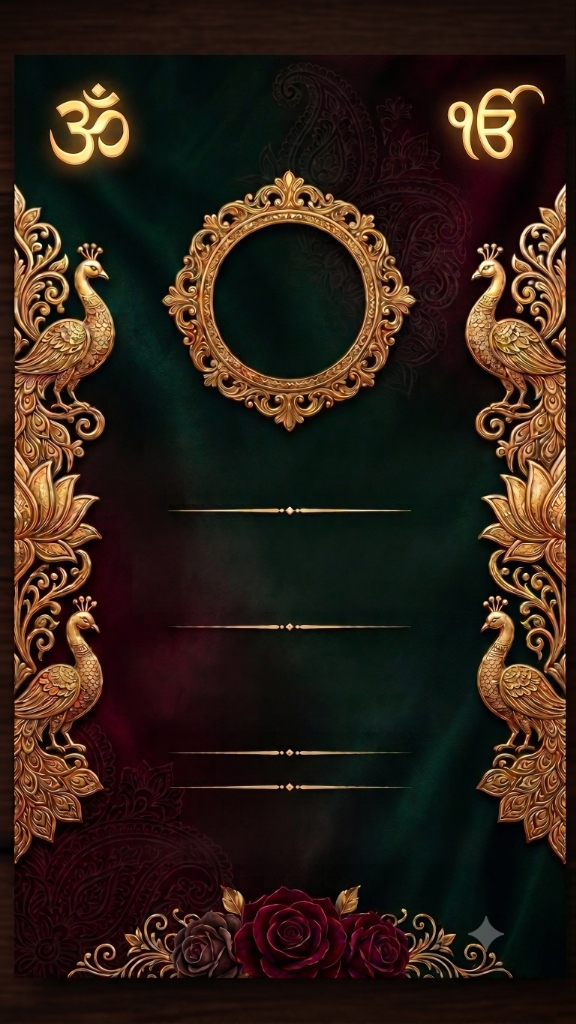
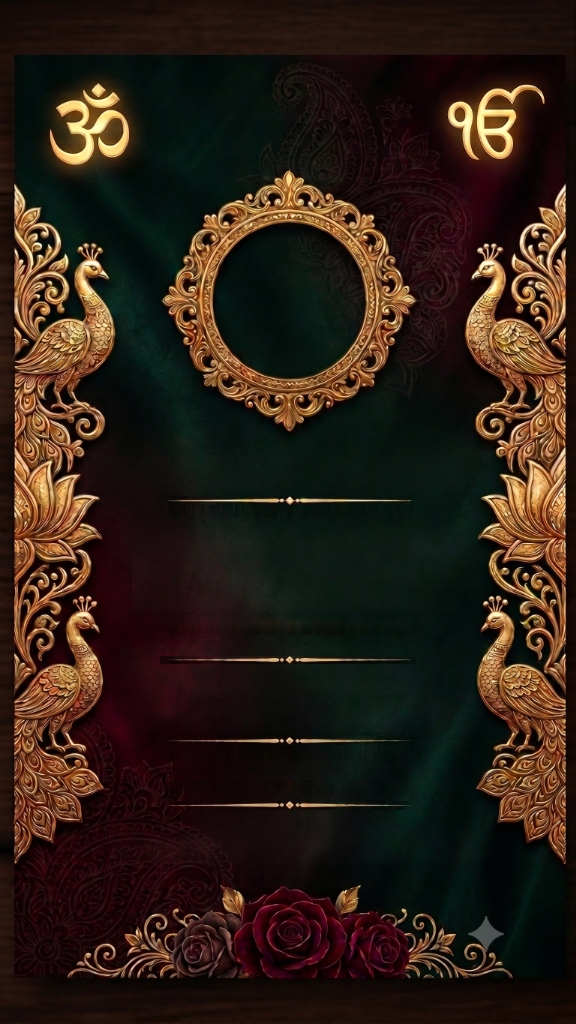
enhanced image rendering

diff --git a/src/pages/DetailView.jsx b/src/pages/DetailView.jsx
@@ -53,10 +53,10 @@ export default function DetailView({ satsangId, user, profile, nav, notify, onRe
 
   const getResponsiveMessageFontSize = (text) => {
     const len = text ? text.length : 0;
-    if (len < 60) return 19;
-    if (len < 100) return 16;
-    if (len < 140) return 13.5;
-    return 12;
+    if (len < 60) return 15;
+    if (len < 100) return 13;
+    if (len < 140) return 11.5;
+    return 10.5;
   };
 
   const getResponsiveTitleFontSize = (text) => {
@@ -64,6 +64,16 @@ export default function DetailView({ satsangId, user, profile, nav, notify, onRe
     if (len < 15) return 20;
     if (len < 25) return 17;
     return 14;
+  };
+
+  const getResponsiveAddressFontSize = (text) => {
+    const len = text ? text.length : 0;
+    if (len < 25) return 10;
+    if (len < 40) return 9;
+    if (len < 55) return 8;
+    if (len < 75) return 7;
+    if (len < 95) return 6.5;
+    return 5.5;
   };
 
   const handleDownloadInvite = async () => {
@@ -132,7 +142,7 @@ export default function DetailView({ satsangId, user, profile, nav, notify, onRe
   const invitePageUrl = `https://gurujisatsangs.com/#/satsang/${satsangId}`;
 
   const handleWhatsAppShare = () => {
-    const textMessage = `🙏 Jai Guruji! You are warmly invited to attend our upcoming Satsang. \n\nDetails:\n📅 Date: ${s.date}\n⏰ Time: ${s.time}\n📍 Venue: ${s.addressLine1 || s.address}, ${s.city}\n\nPlease click the link below to register and confirm your attendance:\n${invitePageUrl}\n\nShukrana Guruji! 🙏`;
+    const textMessage = `🙏 Jai Guruji! You are warmly invited to attend our upcoming Satsang. \n\nDetails:\n📅 Date: ${s.date}\n⏰ Time: ${s.time}\n📍 Venue: ${s.addressLine1 || s.address}, ${s.city}${s.postcode ? ' ' + s.postcode : ''}\n\nPlease click the link below to register and confirm your attendance:\n${invitePageUrl}\n\nShukrana Guruji! 🙏`;
     const shareUrl = `https://api.whatsapp.com/send?text=${encodeURIComponent(textMessage)}`;
     window.open(shareUrl, "_blank");
   };
@@ -288,7 +298,7 @@ export default function DetailView({ satsangId, user, profile, nav, notify, onRe
         <body>
           <div class="header-info">
             <h1>🌹 Day-of Seva Allocation Sheet</h1>
-            <h2><strong>Event:</strong> ${s.title} &nbsp;|&nbsp; <strong>Date:</strong> ${s.date} at ${s.time} &nbsp;|&nbsp; <strong>Venue:</strong> ${s.addressLine1 || s.address}, ${s.city}</h2>
+            <h2><strong>Event:</strong> ${s.title} &nbsp;|&nbsp; <strong>Date:</strong> ${s.date} at ${s.time} &nbsp;|&nbsp; <strong>Venue:</strong> ${s.addressLine1 || s.address}, ${s.city}${s.postcode ? ' ' + s.postcode : ''}</h2>
             <button onclick="window.print()" style="padding: 10px 20px; background: #d4972a; border: none; color: #fff; font-weight: bold; border-radius: 6px; cursor: pointer; font-size: 14px;">Print Seva Sheet</button>
           </div>
           
@@ -1496,8 +1506,8 @@ export default function DetailView({ satsangId, user, profile, nav, notify, onRe
                     position: "absolute",
                     left: 20,
                     right: 20,
-                    top: 275,
-                    height: 40,
+                    top: 272,
+                    height: 38,
                     display: "flex",
                     alignItems: "center",
                     justifyContent: "center",
@@ -1522,8 +1532,8 @@ export default function DetailView({ satsangId, user, profile, nav, notify, onRe
                     position: "absolute",
                     left: 70,
                     right: 70,
-                    top: 325,
-                    height: 60,
+                    top: 320,
+                    height: 85,
                     display: "flex",
                     alignItems: "center",
                     justifyContent: "center",
@@ -1547,8 +1557,8 @@ export default function DetailView({ satsangId, user, profile, nav, notify, onRe
                     position: "absolute",
                     left: 20,
                     right: 20,
-                    top: 398,
-                    height: 65,
+                    top: 418,
+                    height: 40,
                     display: "flex",
                     flexDirection: "column",
                     alignItems: "center",
@@ -1565,13 +1575,13 @@ export default function DetailView({ satsangId, user, profile, nav, notify, onRe
                     </div>
                   </div>
 
-                  {/* Address positioned between the third and fourth separator lines (previously empty) */}
+                  {/* Address positioned between the third and fourth separator lines (with pin icon, responsive text size, and postcode included) */}
                   <div style={{
                     position: "absolute",
                     left: 20,
                     right: 20,
-                    top: 471,
-                    height: 20,
+                    top: 467,
+                    height: 32,
                     display: "flex",
                     alignItems: "center",
                     justifyContent: "center",
@@ -1579,26 +1589,28 @@ export default function DetailView({ satsangId, user, profile, nav, notify, onRe
                     pointerEvents: "none"
                   }}>
                     <span style={{
-                      fontSize: 8.5,
+                      fontSize: getResponsiveAddressFontSize(`${s.addressLine1 || s.address}, ${s.city} ${s.postcode || ""}`),
                       color: "#ffe082",
                       fontFamily: "'Cinzel', serif",
                       fontWeight: "bold",
                       letterSpacing: "0.03em",
                       textAlign: "center",
-                      whiteSpace: "nowrap",
-                      textShadow: "1px 1px 1px rgba(0,0,0,0.8)"
+                      textShadow: "1px 1px 1px rgba(0,0,0,0.8)",
+                      lineHeight: 1.2,
+                      wordBreak: "break-word",
+                      overflowWrap: "anywhere"
                     }}>
-                      📍 {s.addressLine1 || s.address}, {s.city}
+                      📍 {s.addressLine1 || s.address}, {s.city} {s.postcode || ""}
                     </span>
                   </div>
 
-                  {/* Shukrana Text positioned below the fourth separator line (where the address was) */}
+                  {/* Shukrana Text positioned below the fourth separator line */}
                   <div style={{
                     position: "absolute",
                     left: 20,
                     right: 20,
-                    top: 498,
-                    height: 35,
+                    top: 507,
+                    height: 27,
                     display: "flex",
                     alignItems: "center",
                     justifyContent: "center",
